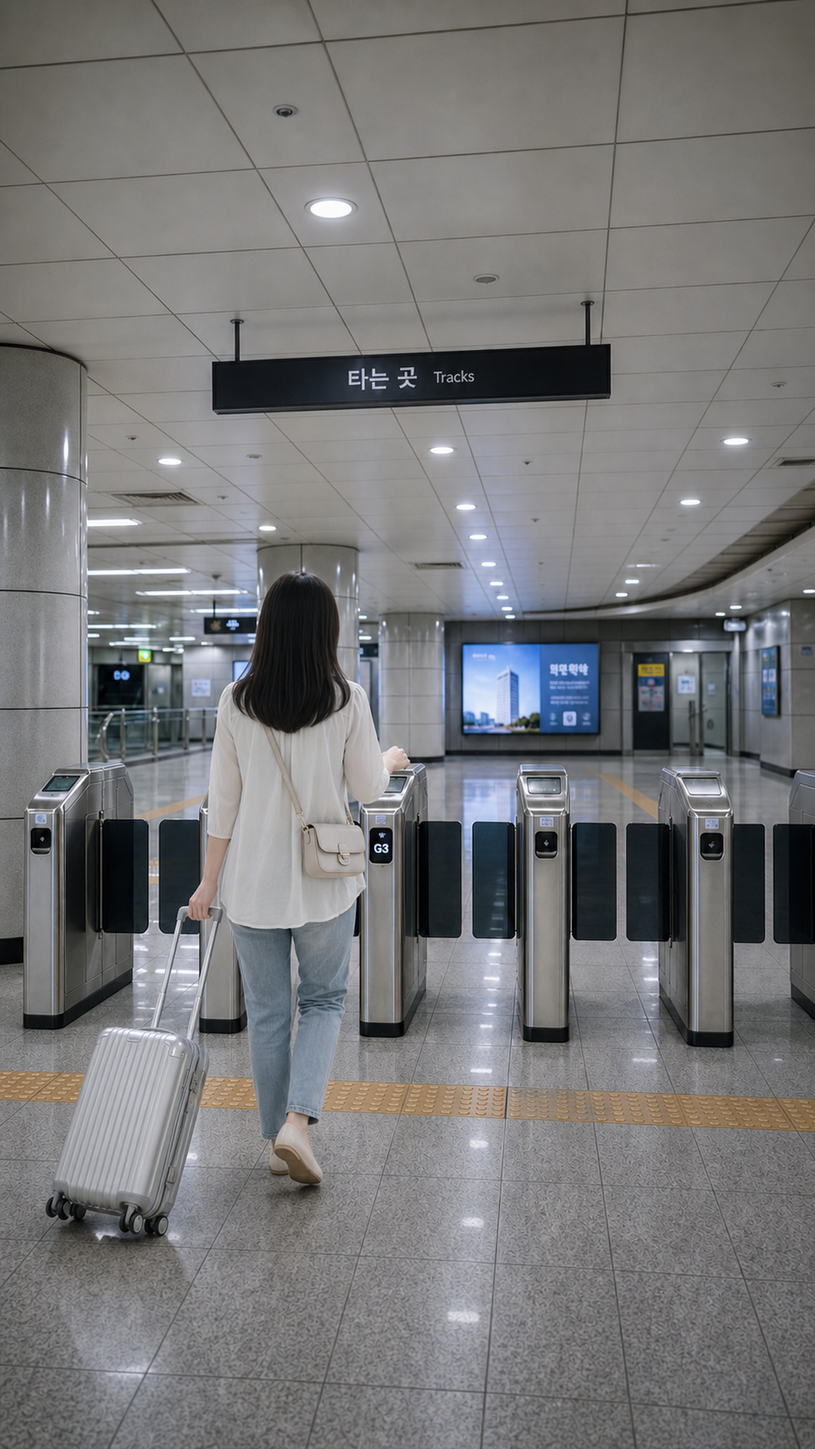
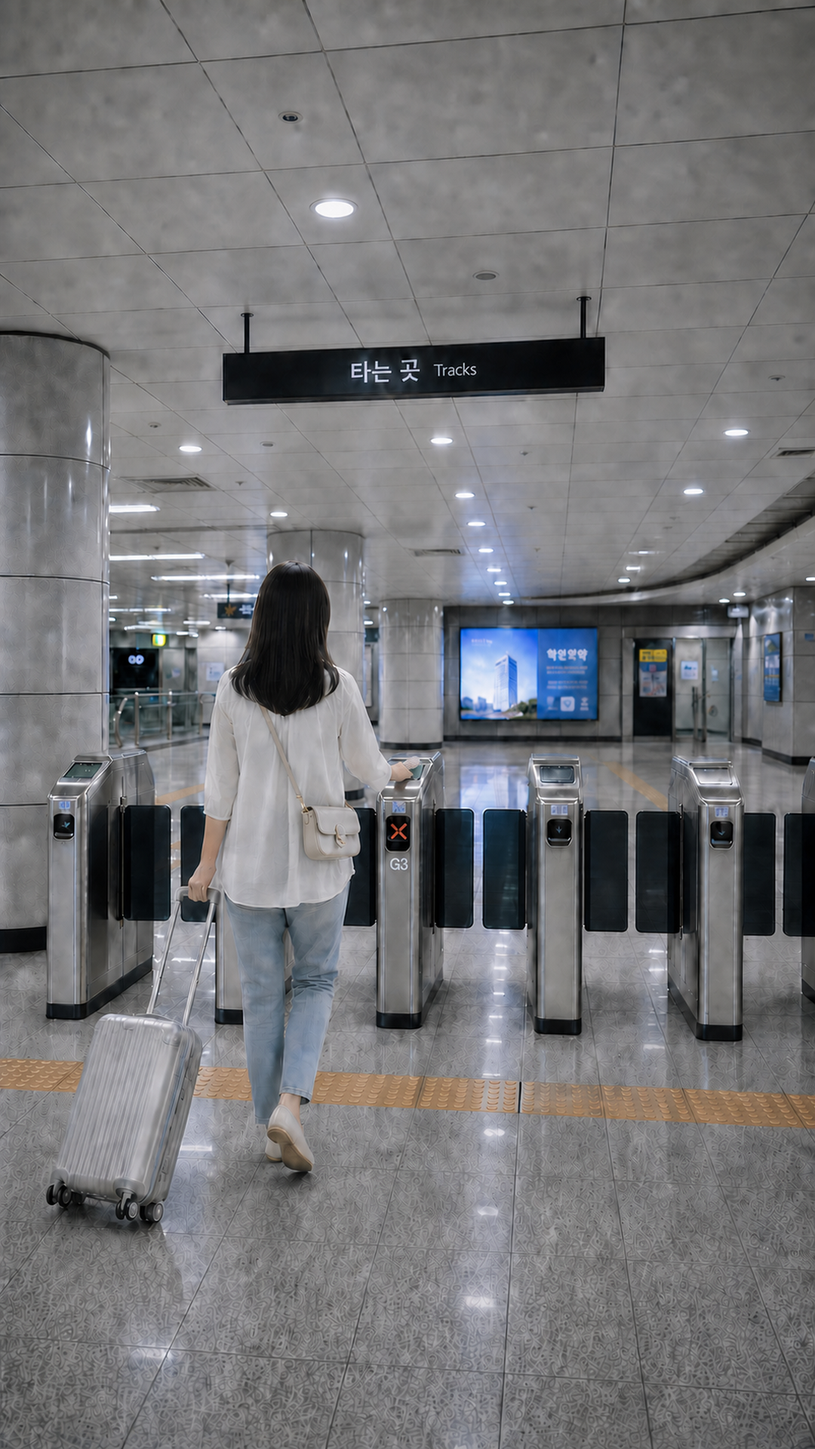
feat: publish three-tap referee reveal revision

diff --git a/edit/storyboard_gpt2/tests/test_prepare_storyboard.py b/edit/storyboard_gpt2/tests/test_prepare_storyboard.py
@@ -32,7 +32,9 @@ def test_prepare_all_keeps_legacy_sheet_without_auxiliary(tmp_path: Path) -> Non
     outputs = sorted(final.glob("S*.png"))
     assert len(outputs) == 13
     assert all(Image.open(path).size == (1080, 1920) for path in outputs)
+    assert all(Image.open(path).mode == "RGB" for path in outputs)
     assert Image.open(sheet).size == (1488, 2688)
+    assert Image.open(sheet).mode == "RGB"
 
 
 def test_prepare_all_normalizes_four_auxiliary_frames_and_extends_sheet(
@@ -56,7 +58,12 @@ def test_prepare_all_normalizes_four_auxiliary_frames_and_extends_sheet(
         Image.open(path).size == (1080, 1920)
         for path in auxiliary_final.glob("*.png")
     )
+    assert all(
+        Image.open(path).mode == "RGB"
+        for path in auxiliary_final.glob("*.png")
+    )
     assert Image.open(sheet).size == (1488, 3354)
+    assert Image.open(sheet).mode == "RGB"
 
 
 def test_prepare_all_rejects_one_sided_auxiliary_configuration(

diff --git a/edit/storyboard_gpt2/review/video-prompt-spec.md b/edit/storyboard_gpt2/review/video-prompt-spec.md
@@ -1,187 +1,33 @@
-# TOSS 일본 관광객 광고 — 영상 프롬프트 명세
+# TOSS 일본인 관광객 릴스 — 영상 프롬프트 명세
 
-기준 이미지: `edit/storyboard_gpt2/frames/final/S01.png`–`S13.png`  
-마스터 길이: 18.0초 / 9:16 / 30fps  
-대사: 없음  
-자막·효과 글자: 영상 생성 단계에서는 없음. 최종 편집에서만 합성.
+기준 러닝타임: **19.0초 / 9:16 / 30fps**. 최종 자막은 편집 단계에서만 얹으며, 생성 이미지 안에는 자막·말풍선·워터마크를 넣지 않는다.
 
-## 공통 모션 잠금
+## 리듬: 세 번의 실패, 점점 가까워지는 편집
 
-- 관광객은 `edit/generated/stills/tourist_lock_JP_v2.jpg`의 일본인 여성으로 고정한다. 일자형 짙은 갈색 단발, 눈썹을 덮는 풀뱅, 흰 블라우스, 베이지 크로스백, 은색 캐리어를 컷마다 동일하게 유지한다.
-- 심판의 얼굴, 체형, 의상, 호루라기·왼손목 시계와 한국 지하철 배경을 시작 이미지와 동일하게 유지한다.
-- 개찰구 홀은 `A05_gate_hall_structural_master.png`, 오른쪽 복도는 `A06_right_concourse_structural_master.png`의 축과 재질을 고정한다. 실사 참고 사진을 직접 합성하지 않는다.
-- `타는 곳 / Tracks` 패널은 얇은 박스형 본체, 두 개의 행거 봉, 천장 체결판, 하부 그림자를 가진 실제 설치물이다. 벽에 붙은 거대한 그래픽이나 공중에 뜬 자막처럼 변형하지 않는다.
-- 카메라 이동은 작은 돌리·펀치인·하드컷 중심이다. 여행 릴스식 핸드헬드, 과한 롤링셔터, 랜덤 줌을 금지한다.
-- 개찰구 G3 리더기는 관광객의 오른쪽에 고정하고, 실패 시 플랩은 닫힌 상태를 유지한다.
-- TOSS 카드는 S10 이전에 생성하지 않는다. S10–S13은 세로 방향의 한 장만 유지한다.
-- 일본식 방사광은 S10–S11에만 사용한다. 배경을 애니메이션으로 교체하지 않는다.
+| 비트 | 길이 | 연출 잠금 |
+|---|---:|---|
+| S02 | 0.65–0.80초 | 첫 실패. 엄격한 후면 와이드. 관광객의 오른손에 무광 회색 일반 카드, 평범한 `삐빅`과 리더의 X. |
+| S03A | 0.45–0.55초 | 두 번째 실패. 45도 하이 앵글로 더 가까이 자르고, 카드를 맞추려는 작은 손목 보정. 조금 더 빠른 `삐빅`. |
+| S03B | 0.25–0.35초 | 세 번째 실패. 28–35mm 리더 높이의 바텀뷰. 카드와 오른손이 전경이고 인물의 시선은 접점 아래에 고정. 가장 짧고 압축된 `삐빅!`. |
+| S04 | 0.55–0.70초 | 세 번째 실패 뒤의 표정 반응만. 70–85mm, 시선은 계속 카드·리더 접점. 네 번째 태그 없음. 0.15–0.20초 정적 뒤 호루라기 연결. |
 
-## S01 — 공간 소개
+모든 실패 비트는 같은 무광 회색 일반 카드와 같은 오른손을 쓴다. S01–S09에 TOSS 카드는 절대 보이지 않는다.
 
-- Duration: 0.8초
-- Start frame: `S01.png`
-- End action: A05의 빈 개찰구와 실제로 매달린 `타는 곳 / Tracks` 패널이 0.5초 안정적으로 보인 뒤 아주 느린 2% 전진.
-- Camera: 28mm, 고정 삼각대에 가까운 미세 돌리인.
-- Subject motion: 멀리 있는 익명 승객만 거의 느껴지지 않을 정도로 이동.
-- Gaze: 해당 없음.
-- Transition: S02와 동일 카메라 축을 유지한 스트레이트컷.
-- Sound cue: 낮은 역내 공조음, 희미한 발소리.
-- Overlay cue: 없음.
-- Negative motion: 게이트 개방, 카메라 흔들림, 간판 글자 변형, 전경 인물 등장 금지.
+## 심판 공개
 
-## S02 — 관광객 진입과 태그 준비
+| 비트 | 길이 | 연출 잠금 |
+|---|---:|---|
+| S05 (S05A→S05B) | 1.20–1.50초 | 줌이 아니라 순수 수직 붐업. 검은 풋살화·양말의 바닥 레벨(S05A)에서 같은 몸축을 따라 호루라기를 문 근엄한 얼굴(S05B)까지 올라간다. 관광객·개찰구·카드 없음. |
+| S06 | 0.80–1.00초 | A06 오른쪽 통로의 심판 단독 35–50mm 전신. 머리와 양쪽 신발이 모두 프레임 안에 있고, 관광객 실루엣도 없다. |
 
-- Duration: 1.6초
-- Start frame: S01의 빈 전경에서 관광객이 화면 왼쪽 밖에 있음.
-- End action: `S02.png`처럼 관광객이 개찰구 정면을 향한 엄격한 뒷모습으로 마지막 반 걸음을 마치고, 오른팔이 리더기 쪽으로 막 올라가기 시작.
-- Camera: S01과 완전히 동일한 고정 와이드.
-- Subject motion: 관광객이 왼쪽에서 2–3걸음 들어와 체중을 앞발에 싣는다. 캐리어는 몸보다 반 박자 늦게 사선으로 따라오며 네 바퀴가 바닥에 닿아 굴러온다.
-- Gaze: 얼굴은 보이지 않으며 머리 방향은 개찰구와 리더기.
-- Transition: 오른팔이 뻗는 최고점에서 S03 하이앵글로 하드컷.
-- Sound cue: 캐리어 바퀴, 옷 마찰, 마지막 4프레임에서 역내음 감쇠.
-- Overlay cue: 없음.
-- Negative motion: 얼굴·뺨 노출, 정면·3/4 얼굴, 제자리 마네킹 포즈, 플랩 통과, 캐리어 선행, 왼손 태그, 심판·TOSS 카드 등장 금지.
+S10–S11만 절제된 일본 게임식 블루·골드 광선을 쓴다. 배경 전체를 애니메이션 스타일로 바꾸지 않는다.
 
-## S03 — 실패 태그 1회차
+## S13 엔딩 잠금
 
-- Duration: 1.0초
-- Start frame: 일반 회색 카드가 리더기 5cm 위로 내려옴.
-- End action: `S03.png`의 붉은 X가 한 번 짧게 점등하고 손이 2cm 멈춤.
-- Camera: 45도 하이앵글, 리더기로 5% 빠른 펀치인.
-- Subject motion: 오른손만 작은 하강과 정지. 캐리어는 뒤쪽에 고정.
-- Gaze: 관광객 얼굴은 거의 보이지 않으며 머리 방향은 리더기.
-- Transition: 첫 실패음 끝에 카드와 손의 진행 방향을 유지한 채 S04의 낮은 축으로 매치컷.
-- Sound cue: 전자식 `삐-빅` 한 세트.
-- Overlay cue: 리더기의 실제 붉은 X만 사용.
-- Negative motion: 녹색 성공, 플랩 개방, 카드 삽입, 휴대전화, TOSS 카드 생성 금지.
+35–50mm 측면 와이드. G3의 양쪽 검은 플랩은 모두 하우징 안으로 완전히 수납되어 있고, 관광객의 보행선과 캐리어 바퀴의 진행선은 한 점도 막히지 않는다. 상단 30–35%는 후반 일본어 카피를 위한 조용한 여백이며 인물은 프레임 높이 65% 아래에 둔다. 심판은 화면 오른쪽에서 정확한 TOSS 카드를 **오른손**으로 태그하고, 검은 시계가 있는 **왼손목**은 아래로 자연스럽게 내린다. 이미지 안에는 글자를 생성하지 않는다.
 
-## S04 — 실패 태그 2회차 / 바텀뷰 반응
+## 공통 연출
 
-- Duration: 0.9초
-- Start frame: 일반 회색 카드가 리더기에서 3cm 떨어졌다가 짧게 다시 내려옴.
-- End action: `S04.png`처럼 카드가 붉은 X 위에서 두 번째이자 마지막으로 실패하고, 눈이 카드 접점에 고정된 채 입술이 미세하게 벌어짐.
-- Camera: 카드 리더 높이에서 얼굴을 올려다보는 28–35mm 바텀뷰. 카드와 오른손을 큰 전경, 얼굴을 위쪽 중경에 두고 마지막 6프레임에 2% 펀치인.
-- Subject motion: 오른손이 짧게 재시도한 뒤 멈추고, 고개를 들거나 카메라를 보지 않은 채 눈과 호흡만 반응.
-- Gaze: 반드시 전경의 회색 카드와 리더 접촉점. 렌즈·심판·화면 밖을 보지 않는다.
-- Transition: 실패음의 잔향 위로 호루라기 첫 어택을 선행시키며 S05 스매시컷.
-- Sound cue: 두 번째 전자식 `삐-빅` 한 세트, 0.2초 정적 후 같은 음색 계열의 날카로운 휘슬 어택.
-- Overlay cue: 없음.
-- Negative motion: 세 번째 태그, TOSS 카드, 카메라 응시, 심판 쪽 시선, 큰 입, 과장된 코믹 표정, 글자 금지.
-
-## S05 — 휘슬의 정체
-
-- Duration: 0.5초
-- Start frame: `S05.png`, 호루라기가 입에 닿아 있음.
-- End action: 심판이 한 번 짧고 단호하게 호루라기를 불고 눈을 움직이지 않음.
-- Camera: 85mm 타이트 클로즈업, 호루라기 어택에 맞춘 3% 스냅 줌.
-- Subject motion: 아주 작은 호흡과 호루라기 진동만 허용.
-- Gaze: 정면 고정.
-- Transition: 휘슬 끝에서 S06 와이드로 즉시 스매시컷.
-- Sound cue: 실제 축구 심판용 금속성 휘슬 한 번.
-- Overlay cue: 화면 가장자리의 옅은 방사선만 4프레임.
-- Negative motion: 손이 얼굴에 접근, 웃음, 말하기, 카드, 경기장 배경 금지.
-
-## S06 — 오른쪽 복도에서 심판 위치 공개
-
-- Duration: 1.0초
-- Start frame: `S06.png`.
-- End action: 심판이 호루라기를 입에서 떼며 관광객을 향한 첫걸음을 시작.
-- Camera: `A06_right_concourse_structural_master.png` 축의 50mm 오버더숄더. 관광객의 뒤통수와 왼쪽 어깨를 화면 왼쪽 전경에 두고, 심판은 복도 원근 중앙에서 접근한다.
-- Subject motion: 심판은 짧은 휘슬을 마치고 한 걸음 전진. 관광객은 몸을 돌리지 않고 고개만 그를 향한다.
-- Gaze: 심판은 관광객, 관광객은 복도 안의 심판.
-- Transition: 관광객 시선 방향을 유지해 S07 클로즈업.
-- Sound cue: 휘슬 잔향, 역내 공조음 재진입.
-- Overlay cue: 없음.
-- Negative motion: 개찰구·게이트·`타는 곳` 간판 재등장, 정면 개찰구 배경으로 회귀, 카드 공개, 카메라 팬 금지.
-
-## S07 — 두 번째 반응
-
-- Duration: 0.8초
-- Start frame: `S07.png`보다 눈이 약간 덜 커진 상태.
-- End action: `S07.png`의 시선과 입 모양에 도달하고 3프레임 홀드.
-- Camera: 70mm 클로즈업, 시선 방향 화면 오른쪽에 여백 유지.
-- Subject motion: 눈과 턱만 화면 오른쪽으로 이동.
-- Gaze: 화면 오른쪽의 심판 눈높이.
-- Transition: 심판의 첫 발소리를 선행시켜 S08 로우앵글로 컷.
-- Sound cue: 작은 숨 들이마심, 낮고 단단한 첫 발소리.
-- Overlay cue: 없음.
-- Negative motion: 아래쪽 리더기 응시, 카메라 응시, 대사·말풍선 금지.
-
-## S08 — 심판 접근
-
-- Duration: 1.6초
-- Start frame: S06과 동일한 A06 복도·오버더숄더 축에서 심판이 이미 첫걸음을 내디딘 상태.
-- End action: `S08.png`의 전진 자세로 렌즈 가까이 도달.
-- Camera: S06보다 조금 낮고 가까운 50mm OTS. 관광객의 머리와 어깨 크기·위치를 유지하며 아주 느리게 후진한다.
-- Subject motion: 일정한 2걸음. 팔과 반대편 다리가 자연스럽게 교차하며 근엄한 표정 유지.
-- Gaze: 렌즈가 아니라 전경의 관광객을 관통하는 시선.
-- Transition: 오른쪽 어깨가 렌즈 전경을 덮는 순간 S09 인물 와이프.
-- Sound cue: 세 번의 구두 발소리, 각 발에 저역 펀치.
-- Overlay cue: 발마다 1.5% 미세 펀치인.
-- Negative motion: 개찰구·게이트·`타는 곳` 간판, 배경 축 변경, 관광객 전경 소실, 달리기, 주먹, 웃음, 카드, 과한 슬로모션, 경기장 금지.
-
-## S09 — 관광객 프레임 침입
-
-- Duration: 1.2초
-- Start frame: 관광객 단독 미디엄 프레임, 심판 어깨가 오른쪽 끝에서 들어옴.
-- End action: `S09.png`의 두 사람 간격에서 멈춤.
-- Camera: A05 개찰구 홀로 돌아온 50–70mm 미디엄 투숏. 관광객은 화면 왼쪽, 심판은 오른쪽, 둘 사이에 카드 리더가 보이도록 고정한다.
-- Subject motion: 심판이 화면 오른쪽에서 왼쪽으로 한 걸음 들어오며 정지. 관광객은 눈으로 그를 따라감.
-- Gaze: 서로를 바라보되 표정은 절제.
-- Transition: 심판의 시선이 가슴주머니로 내려가는 동작을 따라 S10 컷.
-- Sound cue: 마지막 발소리 후 짧은 옷 마찰.
-- Overlay cue: 심판 몸이 만드는 자연스러운 화면 와이프.
-- Negative motion: 왼쪽에서 진입, 관광객 접촉, 대사, 카드 조기 노출 금지.
-
-## S10 — 카드 꺼내기
-
-- Duration: 1.2초
-- Start frame: 손이 비어 있는 상태에서 가슴주머니로 이동.
-- End action: `S10.png`처럼 카드 상단 1/3만 주머니 밖에 노출.
-- Camera: 70mm 가슴 중심 클로즈업, 주머니에 4% 펀치인.
-- Subject motion: 오른손이 카드 옆면을 잡고 세로로 천천히 끌어올림.
-- Gaze: 심판은 카드와 주머니를 내려다봄.
-- Transition: 카드 상승 방향을 유지한 채 S11 로우앵글 매치컷.
-- Sound cue: 짧은 게임 아이템 활성화음, 고역 스파클.
-- Overlay cue: 주머니에서 시작되는 얇은 파란색·금색 방사광과 작은 입자.
-- Negative motion: 카드 완전 공개, 가로 카드, 여러 카드, 노란색·빨간색 카드, 배경 애니메이션화 금지.
-
-## S11 — TOSS 카드 선언
-
-- Duration: 1.1초
-- Start frame: 오른팔이 아래에서 빠르게 상승.
-- End action: `S11.png`의 최고점에서 카드가 정면을 향하고 6프레임 완전 정지.
-- Camera: 35–50mm 로우앵글, 팔과 카드가 프레임 안에 유지되도록 미세 틸트업.
-- Subject motion: 오른팔 한 번 상승, 왼팔은 아래에 고정. 얼굴은 무표정.
-- Gaze: 정면.
-- Transition: 최고점 홀드 후 손이 내려가기 시작하는 첫 프레임에서 S12 매치컷.
-- Sound cue: 상승 우시, 최고점에서 짧은 결정음.
-- Overlay cue: 카드 뒤 파랑·금색 방사광 최고 강도. 다른 화면에는 번지지 않음.
-- Negative motion: 카드 회전·변형·복제, 양팔 들기, 로고 변화, 웃음, 경기장 금지.
-
-## S12 — 성공 태그
-
-- Duration: 1.5초
-- Start frame: S11의 오른팔이 아래로 빠르게 내려오는 흐림.
-- End action: `S12.png`에서 카드가 리더기 위에 평행하게 정지하고 녹색 링이 켜짐.
-- Camera: A05 개찰구 홀에서 하강 모션을 따라 빠른 틸트다운 후 50–70mm 3/4 미디엄 클로즈업에 정착. 심판의 오른쪽 어깨부터 카드까지 한 프레임 안에서 추적 가능해야 한다.
-- Subject motion: 시계가 없는 오른손이 한 번에 내려와 태그. 시계가 찬 왼팔은 몸 옆에 내려둔 채 움직이지 않는다.
-- Gaze: 심판은 리더기와 카드 접점을 내려다본다.
-- Transition: 성공음이 울리는 순간 S13 측면 와이드로 컷.
-- Sound cue: 부드럽고 맑은 `띠링`, 플랩 모터 작동음.
-- Overlay cue: 리더기의 실제 녹색 링만 사용. 방사광 종료.
-- Negative motion: 왼손 태그, 카드 든 손목의 시계, 좌우 반전, 팔 교환, 관광객 손, 실패 X, 카드 삽입, 여러 번 태그, 카드 로고 변화 금지.
-
-## S13 — 엔딩 해결
-
-- Duration: 4.8초
-- Start frame: 측면에서 G3 플랩이 열리기 시작.
-- End action: `S13.png`처럼 관광객이 열린 플랩을 지나며 앞발을 내딛고, 캐리어가 같은 궤적으로 구르는 순간 고개만 심판 쪽으로 돌아본다. 마지막 카피 구간에도 호흡과 바퀴 관성은 미세하게 남긴다.
-- Camera: A05 개찰구 홀의 설치 구조와 패널 두께가 보이는 35–50mm 측면 와이드, 고정.
-- Subject motion: 관광객과 캐리어가 같은 진행선으로 한 번 통과한다. 관광객은 걷는 동작 중 고개만 심판에게 돌린다. 심판은 개찰구 화면 오른쪽에 서서 오른손으로 TOSS 카드를 한 번 태그한 뒤 천천히 낮추고, 시계가 찬 왼팔은 몸 옆에 둔다.
-- Gaze: 관광객은 심판, 심판은 관광객.
-- Hand/side lock: 심판은 반드시 리더기 화면 오른쪽, 카드는 반드시 오른손. 왼손 태그·좌우 반전·팔 교환 금지.
-- Transition: 없음. 최종 카피 홀드.
-- Sound cue: 플랩 개방음, 캐리어 바퀴, 잔잔한 브랜드 해결음.
-- Overlay cue: 15.0초부터 메인 `韓国の移動は、TOSSカードで。`; 작은 한국어 `한국 여행, 교통카드는 TOSS로`를 후반 합성.
-- Negative motion: 인물 정지·마네킹 포즈, 캐리어 미끄러짐·고립, 다시 닫히는 플랩, 심판 미소, 카드 복제, 생성 자막·말풍선 금지.
+- A05는 실제 구조감을 해석한 한국 지하철 개찰구, A06은 개찰구에서 오른쪽으로 시야를 돌린 별도 통로다.
+- 관광객은 `edit/generated/stills/tourist_lock_JP_v2.jpg`, 심판은 `edit/generated/stills/referee_lock_A.png`, 제품은 지정 TOSS PNG의 외형을 유지한다.
+- 모든 인물은 움직임 도중의 자연스러운 접지 그림자, 옷·머리의 관성, 캐리어 바퀴 방향을 갖는다. 포즈를 잡고 서 있는 느낌을 피한다.

diff --git a/edit/storyboard_gpt2/review/qa-report.md b/edit/storyboard_gpt2/review/qa-report.md
@@ -1,49 +1,25 @@
 # GPT Image 스토리보드 QA 리포트
 
-## 최종 판정
+## 최종 통합 판정: PASS
 
-**PASS** — 구조적 사실감, 인물 일관성, 실패 반복의 구도 차이, 오른쪽 복도 축, 카드 공개 순서와 심판의 손 방향을 모두 확인했다.
-
-## 공간 앵커
-
-| 앵커 | 판정 | 검수 내용 |
+| 에셋 | 판정 | 확인한 조건 |
 |---|---|---|
-| A05 개찰구 홀 | PASS | 한국 지하철형 금속 개찰구·원형 타일 기둥·천장 모듈·바닥 촉지도 조합이 자연스럽다. `타는 곳 / Tracks` 패널은 얇은 물리적 박스, 두 개의 행거 봉, 천장 체결부, 하부 그림자가 있어 공간에 실제로 매달려 보인다. |
-| A06 오른쪽 복도 | PASS | 개찰구 정면에서 오른쪽으로 고개를 돌렸을 때 이어질 수 있는 별도 축이다. 기둥 부착형 파란 안내판, 벽면 노선도, 설비문·소화전·환기구·촉지도가 있고 개찰구는 보이지 않는다. |
-
-실사 참고 사진은 구조와 설치 논리를 읽기 위한 참고로만 사용했으며 직접 합성하거나 배경을 복사하지 않았다.
-
-## 컷별 검수
-
-| 컷 | 판정 | 핵심 확인 |
-|---|---|---|
-| S01 | PASS | A05의 빈 개찰구 홀을 먼저 보여 주어 장소와 진행 방향이 즉시 읽힌다. |
-| S02 | PASS | 관광객의 엄격한 뒷모습. 얼굴·뺨은 보이지 않고, 마지막 반 걸음과 뒤따라 구르는 캐리어로 인물이 자연스럽게 진입한다. |
-| S03 | PASS | 실패 1회차. 하이앵글에서 오른손의 무채색 일반 카드, 붉은 X, 닫힌 플랩과 캐리어 위치가 읽힌다. |
-| S04 | PASS | 실패 2회차이자 마지막 반복. 카드 리더 높이의 바텀뷰에서 카드·오른손이 전경을 차지하고, 관광객은 카메라가 아니라 카드 접촉점을 내려다보며 절제된 의아함을 보인다. |
-| S05 | PASS | 휘슬을 입에 문 심판의 근엄한 클로즈업으로 `삐빅`의 정체를 공개한다. TOSS 카드는 아직 없다. |
-| S06 | PASS | A06 오버더숄더. 관광객 앞쪽 먼 복도에서 심판이 휘슬을 마무리하며 첫걸음을 내딛는다. |
-| S07 | PASS | 제공된 일본인 관광객 얼굴·앞머리·헤어 길이가 유지되며, 시선은 화면 오른쪽의 심판을 향한다. |
-| S08 | PASS | S06과 동일한 A06 축에서 심판이 두 걸음 가까워졌다. 자연스러운 보행과 근엄한 표정이 유지된다. |
-| S09 | PASS | A05로 돌아온 게이트 옆 투샷. 관광객은 왼쪽, 심판은 오른쪽, 둘 사이에 리더가 있어 관계가 명확하다. |
-| S10 | PASS | 심판이 오른손으로 가슴주머니에서 정확한 TOSS 카드 상단 약 1/3만 꺼낸다. 왼손목의 검은 시계가 유지된다. |
-| S11 | PASS | 정확한 카드 한 장만 오른손으로 높이 들며 일본식 방사광은 카드 뒤에만 제한된다. |
-| S12 | PASS | 심판은 게이트 오른쪽에 서고 시계 없는 오른팔로 카드를 태그한다. 시계가 찬 왼팔은 아래에 있으며 리더는 녹색 성공 상태다. |
-| S13 | PASS | 관광객은 열린 게이트를 실제로 걸어 통과하며 캐리어가 같은 궤적으로 구른다. 심판의 오른손 태그·왼손목 시계·상단 카피 안전영역이 유지된다. |
-
-## 연속성 체크
-
-- PASS — 관광객은 `edit/generated/stills/tourist_lock_JP_v2.jpg`의 동일 인물이다.
-- PASS — 실패 태그는 S03, S04 두 번만 보이며 두 컷의 렌즈 높이와 정보량이 확실히 다르다.
-- PASS — 두 실패 모두 동일한 무채색 일반 카드이며 TOSS 제품 카드는 S10 전까지 노출되지 않는다.
-- PASS — S06·S08은 A06 오른쪽 복도 축을 공유하고 개찰구 배경으로 되돌아가지 않는다.
-- PASS — S09–S13은 A05 개찰구 홀의 패널 설치 방식과 공간 재질을 공유한다.
-- PASS — S12·S13에서 심판의 오른손이 카드 태그를 수행하고 검은 시계는 왼손목에 있다.
-- PASS — S13의 인물과 캐리어는 정지 포즈가 아니라 통과 동작 중이다.
+| S02 | PASS | 첫 실패. G3 소형 리더, 오른손 무광 회색 카드, 후면 와이드, TOSS 카드 없음. |
+| S03A | PASS | 두 번째 실패 제어 프레임. 45도 하이 앵글과 작은 손목 보정. |
+| S03B | PASS | 세 번째 실패 제어 프레임. 리더 높이 바텀뷰, 카드·오른손 전경, 아래쪽 접점 시선. |
+| S04 | PASS | 세 번째 시도 뒤의 얼굴 반응만이며 추가 태그가 아니다. |
+| S05A | PASS | 심판 단독 붐업 시작: 검은 풋살화·양말·바닥 접지, 상체·관광객 없음. |
+| S05B | PASS | 심판 단독 붐업 종료: 같은 몸축, 호루라기와 근엄한 얼굴. |
+| S06 | PASS | A06 심판 단독 전신. 머리·양쪽 신발이 보이고 관광객 실루엣 없음. |
+| S13 | PASS | G3 양쪽 플랩이 하우징 안으로 수납, 보행·캐리어 통로 비어 있음, 오른손 태그·내린 왼손목 시계·상단 카피 여백 유지. |
 
 ## 파일 검증
 
-- PASS — 최종 프레임 S01–S13: 13개, 각 1080×1920, RGB PNG.
-- PASS — 콘택트시트: 1488×2688 PNG, S01–S13 순서 유지.
-- PASS — A05·A06 구조 앵커와 두 장의 구조 참고 이미지가 저장되어 있다.
-- PASS — 매니페스트에 공간 앵커, 실패 회차, S04 시선, S12·S13 손 방향 메타데이터가 기록되어 있다.
+- PASS — 메인 S01–S13: 13개, 각각 1080×1920 RGB PNG.
+- PASS — 보조 제어 프레임 S03A/S03B/S05A/S05B: 4개, 각각 1080×1920 RGB PNG.
+- PASS — 통합 콘택트시트: 1488×3354 RGB PNG. 상단 4행은 메인, 하단은 보조 제어 프레임 순서다.
+- PASS — `storyboard-manifest.json`은 19.0초 런타임, 세 번의 실패 메타데이터, 붐업·전신·완전 개방 엔딩 메타데이터를 보존한다.
+
+## 편집 전 인계
+
+실패음은 보통 → 조금 빠름 → 가장 짧고 촘촘함 순서로 가속한다. S04의 0.15–0.20초 정적을 호루라기와 붐업의 첫 프레임에 맞춰 끊으면, 개찰구 오류음의 정체가 심판이라는 반전이 가장 또렷하게 작동한다.

diff --git a/README.md b/README.md
@@ -1,64 +1,27 @@
 # AI Video — TOSS Card
 
-한국을 여행하는 일본인 여성 관광객에게 TOSS 카드를 소개하는 세로형 숏폼 광고 프로젝트입니다. 축구 심판의 `삐빅` 호루라기와 개찰구 결제 실패음을 연결한 무대사 코미디를, 실제 한국 지하철 공간과 프리미엄 광고 톤으로 구성했습니다.
+한국을 여행하는 일본인 여성 관광객이 개찰구에서 세 번 실패한 `삐빅`의 정체를 축구 심판의 호루라기로 발견하고, TOSS 카드로 통과하는 19.0초 세로형 광고 스토리보드입니다.
 
-## 최신 작업 상태
+## 현재 납품본
 
-- GPT Image 기반 9:16 스토리보드: **13컷 완성**
-- 최종 스토리보드 규격: **1080×1920 RGB PNG**
-- 콘택트시트: **1488×2688 PNG**
-- 일본인 관광객을 새 기준 인물 `tourist_lock_JP_v2.jpg`로 전 컷 교체
-- A05 개찰구 홀 수정 완료: 실제 두께·행거 봉·천장 체결부·하부 그림자를 갖는 `타는 곳 / Tracks` 패널과 현실적인 한국 지하철 구조
-- S02 수정 완료: 관광객이 개찰구 정면을 보는 엄격한 뒷모습, 마지막 반 걸음과 자연스럽게 뒤따르는 캐리어
-- S03·S04 수정 완료: 실패는 두 번만 반복하며, 하이앵글 1회차와 카드 리더 높이 바텀뷰 2회차로 구분
-- S06·S08 수정 완료: 개찰구 정면 기준 오른쪽의 별도 한국 지하철 복도(A06)에서 관광객 오버더숄더로 심판이 접근
-- S12·S13 수정 완료: 심판은 개찰구 화면 오른쪽에 서고 **오른손으로 TOSS 카드를 태그**, 시계가 찬 왼팔은 아래로 유지
-- 이전 영상 제작본·오디오·소스 스틸·검수 자료도 `edit/` 아래에 함께 보관
+메인 번호는 **S01–S13**을 유지했습니다. 편집 리듬과 카메라 이동을 정확히 전달하기 위해 **S03A, S03B, S05A, S05B** 네 장의 보조 제어 프레임을 더했습니다.
 
-## 바로 보기
+- [17프레임 통합 콘택트시트](edit/storyboard_gpt2/review/contact-sheet.png)
+- [S03B — 세 번째 실패, 리더 높이 바텀뷰](edit/storyboard_gpt2/frames/auxiliary/S03B.png)
+- [S05A — 붐업 시작, 풋살화](edit/storyboard_gpt2/frames/auxiliary/S05A.png)
+- [S05B — 붐업 종료, 호루라기 얼굴](edit/storyboard_gpt2/frames/auxiliary/S05B.png)
+- [S06 — 심판 단독 전신](edit/storyboard_gpt2/frames/final/S06.png)
+- [S13 — 완전히 열린 개찰구 엔딩](edit/storyboard_gpt2/frames/final/S13.png)
 
-- [13컷 콘택트시트](edit/storyboard_gpt2/review/contact-sheet.png)
-- [최종 프레임 S01–S13](edit/storyboard_gpt2/frames/final/)
-- [수정된 S02 엄격한 뒷모습](edit/storyboard_gpt2/frames/final/S02.png)
-- [수정된 S04 리더 높이 바텀뷰](edit/storyboard_gpt2/frames/final/S04.png)
-- [수정된 S06 오버더숄더](edit/storyboard_gpt2/frames/final/S06.png)
-- [수정된 S08 접근컷](edit/storyboard_gpt2/frames/final/S08.png)
-- [수정된 S12 오른손 태그](edit/storyboard_gpt2/frames/final/S12.png)
-- [수정된 S13 엔딩컷](edit/storyboard_gpt2/frames/final/S13.png)
-- [구조 현실화 개찰구 홀 A05](edit/storyboard_gpt2/anchors/A05_gate_hall_structural_master.png)
-- [구조 현실화 오른쪽 복도 A06](edit/storyboard_gpt2/anchors/A06_right_concourse_structural_master.png)
-- [새 관광객 기준 인물](edit/generated/stills/tourist_lock_JP_v2.jpg)
-- [스토리보드 연속성 바이블](edit/storyboard_gpt2/continuity-bible.md)
-- [이미지 생성 프롬프트 팩](edit/storyboard_gpt2/prompts/prompt-pack.md)
-- [영상 생성 프롬프트 명세](edit/storyboard_gpt2/review/video-prompt-spec.md)
+## 바로 사용할 문서
+
+- [영상 프롬프트 명세](edit/storyboard_gpt2/review/video-prompt-spec.md)
 - [QA 리포트](edit/storyboard_gpt2/review/qa-report.md)
 - [스토리보드 매니페스트](edit/storyboard_gpt2/storyboard-manifest.json)
-- [이번 수정 연출 설계](docs/superpowers/specs/2026-07-18-toss-storyboard-structural-realism-design.md)
-- [이번 수정 실행 계획](docs/superpowers/plans/2026-07-18-toss-structural-realism-regeneration.md)
-- [기존 릴 v01](edit/preview/TOSS_JP_reel_v01.mp4)
-- [기존 릴 QA](edit/preview/QA_REPORT.md)
-
-## 폴더 구조
-
-```text
-edit/storyboard_gpt2/
-├─ anchors/          # 공간·인물 고정 앵커와 A05·A06 구조 현실화 앵커
-├─ source_sketches/  # 손그림 스토리보드 S01–S13
-├─ frames/raw/       # GPT Image 원본 프레임
-├─ frames/final/     # 1080×1920 납품 프레임
-├─ prompts/          # 이미지 생성 프롬프트
-├─ review/           # 콘택트시트, QA, 영상 프롬프트
-├─ tools/            # 규격화·콘택트시트 생성 스크립트
-└─ tests/            # 준비 스크립트 테스트
-
-edit/
-├─ generated/        # 캐릭터 락, 장면 스틸, 생성 영상
-├─ assembly/         # 편집 세그먼트
-├─ audio/            # 효과음·환경음 및 라이선스 정보
-├─ preview/          # 릴 렌더와 QA 프레임
-├─ prompts/          # 기존 영상 제작 프롬프트
-└─ production/       # 자산 매니페스트와 연속성 규칙
-```
+- [연속성 바이블](edit/storyboard_gpt2/continuity-bible.md)
+- [이미지 생성 프롬프트 팩](edit/storyboard_gpt2/prompts/prompt-pack.md)
+- [승인된 크리에이티브 디자인](docs/superpowers/specs/2026-07-18-toss-three-tap-referee-reveal-ending-design.md)
+- [승인된 구현 계획](docs/superpowers/plans/2026-07-18-toss-three-tap-referee-reveal-ending.md)
 
 ## 검증
 
@@ -66,4 +29,4 @@ edit/
 python -m pytest edit/storyboard_gpt2/tests/test_prepare_storyboard.py -q
 ```
 
-현재 체크포인트는 새 일본인 관광객 캐스팅, A05 개찰구 홀, A06 오른쪽 복도 축, 두 번의 실패 구도, 13개 최종 PNG, 콘택트시트, 매니페스트 및 S12·S13 오른손 방향 수정까지 PASS입니다.
+모든 메인·보조 프레임은 1080×1920 RGB PNG이며, 콘택트시트는 1488×3354 RGB PNG입니다.
